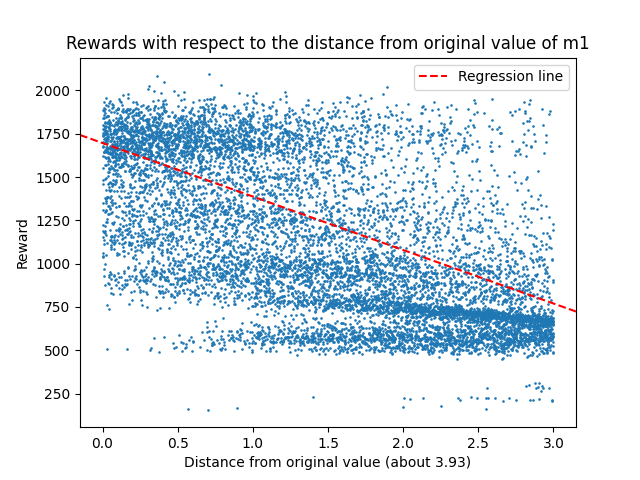
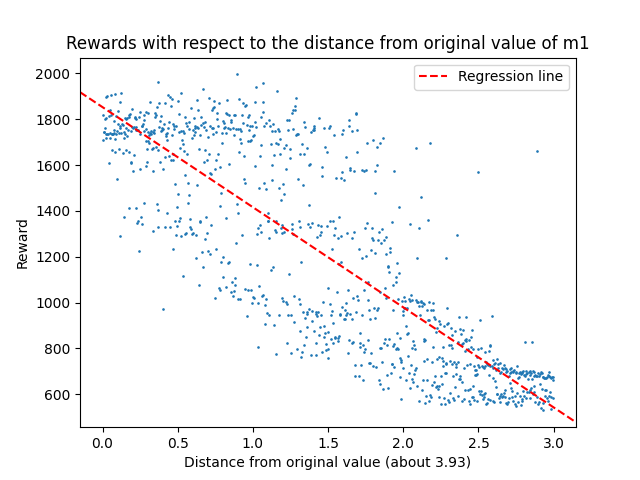
Added m1_plots mode in sens.py, noise masses and fixed some warnings

diff --git a/PPO_Sobol_sensitivity_analysis/sens.py b/PPO_Sobol_sensitivity_analysis/sens.py
@@ -22,16 +22,6 @@ import pandas as pd
 logging.basicConfig(level=logging.INFO, format='%(asctime)s - %(levelname)s - %(message)s')
 logger = logging.getLogger(__name__)
 
-# Register the custom environment globally
-def register_custom_envs():
-    register(
-        id='CustomHopper-source-v0',
-        entry_point='env.custom_hopper:CustomHopper',
-        kwargs={'domain': 'source'},
-        max_episode_steps=500,
-    )
-
-register_custom_envs()  # Register once at the top
 
 # Parse command line arguments
 def parse_args():
@@ -47,8 +37,9 @@ def parse_args():
     parser.add_argument("--range", default=5, type=float, help="Range for the UDR")
     parser.add_argument("--parallel", default=8, type=int, help="Number of parallel processes")
     parser.add_argument("--n", default=1000, type=int, help="Number of samples")
-    parser.add_argument("--mode", default="sobol", type=str, help="[sobol, linear]")
+    parser.add_argument("--mode", default="sobol", type=str, help="[sobol, linear, m1_plots]")
     parser.add_argument("--mass", default=None, type=int, help="[1,2,3]")
+    parser.add_argument("--noise", default=2, type=int, help="Number of noise variables")
     return parser.parse_args()
 
 args = parse_args()
@@ -62,8 +53,9 @@ def load_model_in_process(alg: str, model_name: str, device: str) -> Any:
     return model
 
 def test_model(sample_batch: np.ndarray, baseline: float, env_name: str, model_name: str, alg: str, device: str, test_episodes: int, batch_index: int) -> np.ndarray:
+    env_name = f"Batch{batch_index}-{env_name}"
     register(
-            id='CustomHopper-source-v0',
+            id=env_name,
             entry_point='env.custom_hopper:CustomHopper',
             kwargs={'domain': 'source'},
             max_episode_steps=500,
@@ -78,8 +70,11 @@ def test_model(sample_batch: np.ndarray, baseline: float, env_name: str, model_n
     rewards = []
     
     for i, sample in enumerate(sample_batch):
+        if args.noise > 0:
+            sample = sample[:-args.noise]
         # Assign the sample to the environment's body_mass
-        env.sim.model.body_mass[2:] = sample
+        env.sim.model.body_mass[2:2+len(sample)] = sample
+
         
         # Evaluate the policy and store the mean reward
         mean_reward, _ = evaluate_policy(model, env, n_eval_episodes=test_episodes, deterministic=True)
@@ -121,6 +116,7 @@ def compute_names(alg: str, train_type: str, dr_type: str) -> str:
     else:
         return f"./bestmodel/models/{model_name}"
 
+
 def loop_sobol(n: int, n_parallel: int) -> Dict[str, Any]:
     if n < 0 or n_parallel < 0:
         raise ValueError("The number of samples and parallel processes must be positive.")
@@ -128,10 +124,15 @@ def loop_sobol(n: int, n_parallel: int) -> Dict[str, Any]:
     model_name = compute_names(args.algorithm, "source", args.DR)
     env_name = "CustomHopper-source-v0"
     minimum, maximum = compute_hopper_mass_bounds()
+    bounds = [[minimum[0], maximum[0]], [minimum[1], maximum[1]], [minimum[2], maximum[2]]]
+    names = ["mass_1", "mass_2", "mass_3"]
+    for i in range(args.noise):
+        bounds.append([1,7])
+        names.append(f"noise_mass_{i+1}")
     problem = {
-        "num_vars": 3,
-        "names": ["mass_1", "mass_2", "mass_3"],
-        "bounds": [[minimum[0], maximum[0]], [minimum[1], maximum[1]], [minimum[2], maximum[2]]],
+        "num_vars": 3+args.noise,
+        "names": names,
+        "bounds": bounds
     }
     X = saltelli.sample(problem, N=n, calc_second_order=True)
     Y = parallel_evaluate(X, baseline=0, env_name=env_name, model_name=model_name, alg=args.algorithm, device=args.device, test_episodes=args.test_episodes, n_parallel=n_parallel)
@@ -139,13 +140,21 @@ def loop_sobol(n: int, n_parallel: int) -> Dict[str, Any]:
     return sobol_result
 
 def linear(n: int, n_parallel: int):
+    if n < 0 or n_parallel < 0:
+        raise ValueError("The number of samples and parallel processes must be positive.")
+
     model_name = compute_names(args.algorithm, "source", args.DR)
     env_name = "CustomHopper-source-v0"
     minimum, maximum = compute_hopper_mass_bounds()
+    bounds = [[minimum[0], maximum[0]], [minimum[1], maximum[1]], [minimum[2], maximum[2]]]
+    names = ["mass_1", "mass_2", "mass_3"]
+    for i in range(args.noise):
+        bounds.append([1,7])
+        names.append(f"noise_mass_{i+1}")
     problem = {
-        "num_vars": 3,
-        "names": ["mass_1", "mass_2", "mass_3"],
-        "bounds": [[minimum[0], maximum[0]], [minimum[1], maximum[1]], [minimum[2], maximum[2]]],
+        "num_vars": 3+args.noise,
+        "names": names,
+        "bounds": bounds
     }
     
     # Latin Hypercube Sampling for linear regression
@@ -153,19 +162,54 @@ def linear(n: int, n_parallel: int):
     
     # Parallel evaluation
     Y = parallel_evaluate(X, baseline=0, env_name=env_name, model_name=model_name, alg=args.algorithm, device=args.device, test_episodes=args.test_episodes, n_parallel=n_parallel)
+
+    avg_values = np.concatenate((np.array(gym.make(env_name).get_parameters()[1:]), np.array([4,4], dtype=np.float64)))
     
-    delta = sm.add_constant(np.abs(X - np.array(gym.make(env_name).get_parameters()[1:])))
+    #print(avg_values)
+    delta = sm.add_constant(np.abs(X -avg_values))
+
+    #print(delta)
     
-    plt.scatter(X[:, 0], Y, s=0.8)
+    model = sm.OLS(Y, delta)
+    res = model.fit_regularized()
+    results = model.fit(params=res.params)
+
+
+    df = pd.DataFrame(data=X, columns=["mass1", "mass2", "mass3", "noise1", "noise2"])
+    df.insert(value=Y, column="Y", loc=5)
+    #print(df)
+    #df.to_csv("./logsens/linear.csv", index=False)
+    print(results.summary())
+
+def make_plots(n, n_parallel):
+
+    model_name = compute_names(args.algorithm, "source", args.DR)
+    env_name = "CustomHopper-source-v0"
+    minimum, maximum = compute_hopper_mass_bounds()
+    problem = {
+        "num_vars": 1,
+        "names": ["mass_1"],
+        "bounds": [[minimum[0], maximum[0]]],
+    }
+    
+    # Latin Hypercube Sampling for linear regression
+    X = latin.sample(problem, n)
+    # Parallel evaluation
+    Y = parallel_evaluate(X, baseline=0, env_name=env_name, model_name=model_name, alg=args.algorithm, device=args.device, test_episodes=args.test_episodes, n_parallel=n_parallel)
+    
+    delta = sm.add_constant(np.abs(X - np.array(gym.make(env_name).get_parameters()[1])))
+    
+    plt.scatter(X, Y, s=2)
     plt.ylabel("Reward")
     plt.xlabel("Mass 1")
     
-    XY_sorted = list(zip(X[:, 0], Y))
+    XY_sorted = list(zip(X, Y))
     XY_sorted.sort(key=lambda x: x[0])
-    XY_sorted = np.array(XY_sorted)
-    centroids = np.zeros((5, 2))
+    XY_sorted = np.array(XY_sorted, dtype="object")
+    centroids = np.zeros((3, 2))
+    centroids_string = "["
     index = 0
-    for i in range(5):
+    for i in range(3):
         step = math.ceil(n / 3)
         if index + step < n:
             X_centroid = np.mean(XY_sorted[index : index + step, 0])
@@ -176,8 +220,11 @@ def linear(n: int, n_parallel: int):
             Y_centroid = np.mean(XY_sorted[index:, 1])
         centroids[i, 0] = X_centroid
         centroids[i, 1] = Y_centroid
-    
-    print(centroids)
+        if(i!=2):
+            centroids_string += f"({X_centroid[0]}, {Y_centroid}), "
+        else:
+            centroids_string += f"({X_centroid[0]}, {Y_centroid})]."
+    print("Centroids:", centroids_string)
     plt.scatter(centroids[:, 0], centroids[:, 1], marker="x", c="red", label="Centroids of the left, middle and upper portion")
     plt.axvline(gym.make(env_name).get_parameters()[1], alpha=0.5, ls="--", c="green", linewidth=1.5, label="Original value")
     plt.legend()
@@ -189,7 +236,6 @@ def linear(n: int, n_parallel: int):
     res = model.fit_regularized()
     results = model.fit(params=res.params)
 
-    print(results.params)
 
     plt.scatter(delta[:, 1], Y, s=0.8)
     plt.axline((0, results.params[0]), slope=results.params[1], linewidth=1.5, ls="--", c="red", label="Regression line")
@@ -200,19 +246,17 @@ def linear(n: int, n_parallel: int):
     plt.savefig("./plots/delta_m1_vs_reward.png")
     plt.show()
 
-    df = pd.DataFrame(data=X, columns=["mass1", "mass2", "mass3"])
-    df.insert(value=Y, column="Y", loc=3)
-    print(df)
-    df.to_csv("./logsens/linear.csv", index=False)
     print(results.summary())
 
 def main() -> Any:
     start_time = time.time()
     try:
         if args.mode == "sobol":
-            result = loop_sobol(args.n, args.parallel)
+            loop_sobol(args.n, args.parallel)
         elif args.mode == "linear":
             linear(args.n, args.parallel)
+        elif args.mode == "m1_plots":
+            make_plots(args.n, args.parallel)
         else:
             raise ValueError(f"Invalid mode: {args.mode}")
     except Exception as e:
@@ -220,7 +264,6 @@ def main() -> Any:
         raise
     finally:
         logger.info(f"Execution time: {time.time() - start_time:.2f} seconds")
-    return result
 
 if __name__ == "__main__":
     main()

diff --git a/PPO_Sobol_sensitivity_analysis/test.py b/PPO_Sobol_sensitivity_analysis/test.py
@@ -1,0 +1,155 @@
+import numpy as np
+import torch
+import torch.nn.functional as F
+from torch.distributions import Normal
+from torch.optim.lr_scheduler import StepLR
+
+
+def discount_rewards(r, gamma):
+    discounted_r = torch.zeros_like(r)
+    running_add = 0
+    for t in reversed(range(0, r.size(-1))):
+        running_add = running_add * gamma + r[t]
+        discounted_r[t] = running_add
+    return discounted_r
+
+
+class Policy(torch.nn.Module):
+    def __init__(self, state_space, action_space):
+        super().__init__()
+        self.state_space = state_space
+        self.action_space = action_space
+        self.hidden = 64
+        self.tanh = torch.nn.Tanh()
+        """
+            Actor network
+        """
+        self.fc1_actor = torch.nn.Linear(state_space, self.hidden)
+        self.fc2_actor = torch.nn.Linear(self.hidden, self.hidden)
+        self.fc3_actor_mean = torch.nn.Linear(self.hidden, action_space)
+
+        # Learned standard deviation for exploration at training time
+        self.sigma_activation = F.softplus
+        init_sigma = 0.5
+        self.sigma = torch.nn.Parameter(torch.zeros(self.action_space) + init_sigma)
+
+        """
+            Critic network
+        """
+        # TASK 3: critic network for actor-critic algorithm
+
+        self.init_weights()
+
+    def init_weights(self):
+        for m in self.modules():
+            if type(m) is torch.nn.Linear:
+                torch.nn.init.normal_(m.weight)
+                torch.nn.init.zeros_(m.bias)
+
+    def forward(self, x):
+        """
+        Actor
+        """
+        x_actor = self.tanh(self.fc1_actor(x))
+        x_actor = self.tanh(self.fc2_actor(x_actor))
+        action_mean = self.fc3_actor_mean(x_actor)
+
+        sigma = self.sigma_activation(self.sigma)
+        normal_dist = Normal(action_mean, sigma)
+
+        """
+            Critic
+        """
+        # TASK 3: forward in the critic network
+
+        return normal_dist
+
+
+class Agent(object):
+    def __init__(self, policy, device="cpu"):
+        self.train_device = device
+        self.policy = policy.to(self.train_device)
+        self.optimizer = torch.optim.Adam(policy.parameters(), lr=1e-3)
+
+        self.gamma = 0.99
+        self.states = []
+        self.next_states = []
+        self.action_log_probs = []
+        self.rewards = []
+        self.done = []
+        self.baseline_arr = torch.zeros((1000,))
+        self.baseline_count = torch.zeros((1000,))
+        self.scheduler = StepLR(self.optimizer, step_size=20000, gamma=0.1)
+
+    def update_policy(self):
+        action_log_probs = (
+            torch.stack(self.action_log_probs, dim=0).to(self.train_device).squeeze(-1)
+        )
+        states = torch.stack(self.states, dim=0).to(self.train_device).squeeze(-1)
+        next_states = (
+            torch.stack(self.next_states, dim=0).to(self.train_device).squeeze(-1)
+        )
+
+        rewards = torch.stack(self.rewards, dim=0).to(self.train_device).squeeze(-1)
+        done = torch.Tensor(self.done).to(self.train_device)
+
+        # TASK 2:
+
+        # compute discounted return
+        G = discount_rewards(rewards, self.gamma)
+
+        # compute the baseline
+        self.baseline_arr += torch.cat((G, torch.zeros(1000 - len(G))))
+        self.baseline_count += torch.cat(
+            (torch.ones_like(G), torch.zeros(1000 - len(G)))
+        )
+        baseline = self.baseline_arr[: G.size()[0]] / self.baseline_count[: G.size()[0]]
+
+        # compute policy gradient loss function given actions and returns
+        loss = -(action_log_probs * (G - baseline)).sum()
+
+        # compute gradients and step the optimizer
+
+        self.optimizer.zero_grad()
+        loss.backward()
+        self.optimizer.step()
+        self.scheduler.step()
+
+        self.states = []
+        self.next_states = []
+        self.action_log_probs = []
+        self.rewards = []
+        self.done = []
+        #
+        # TASK 3:
+        #   - compute boostrapped discounted return estimates
+        #   - compute advantage terms
+        #   - compute actor loss and critic loss
+        #   - compute gradients and step the optimizer
+        #
+
+        return
+
+    def get_action(self, state, evaluation=False):
+        """state -> action (3-d), action_log_densities"""
+        x = torch.from_numpy(state).float().to(self.train_device)
+
+        normal_dist = self.policy(x)
+
+        if evaluation:  # Return mean
+            return normal_dist.mean, None
+
+        else:  # Sample from the distribution
+            action = normal_dist.sample()
+
+            # Compute Log probability of the action [ log(p(a[0] AND a[1] AND a[2])) = log(p(a[0])*p(a[1])*p(a[2])) = log(p(a[0])) + log(p(a[1])) + log(p(a[2])) ]
+            action_log_prob = normal_dist.log_prob(action).sum()
+
+            return action, action_log_prob
+
+    def store_outcome(self, state, next_state, action_log_prob, reward, done):
+        self.states.append(torch.from_numpy(state).float())
+        self.next_states.append(torch.from_numpy(next_state).float())
+        self.action_log_probs.append(action_log_prob)
+        self.rewards.append(torch.Tensor([reward]))
+        self.done.append(done)
